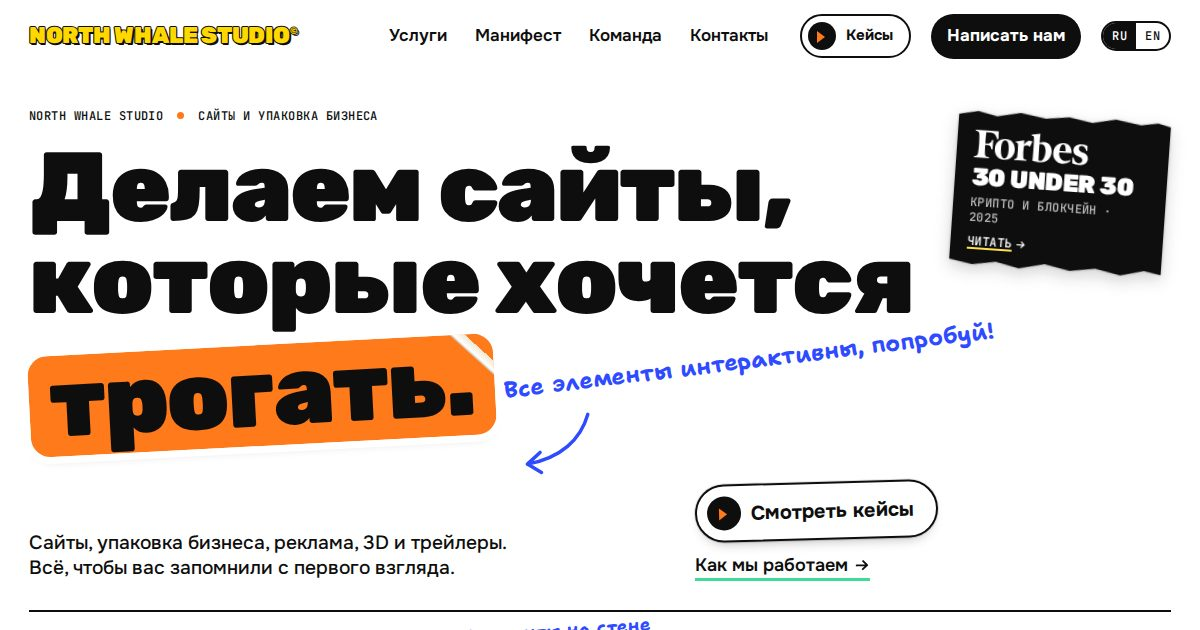
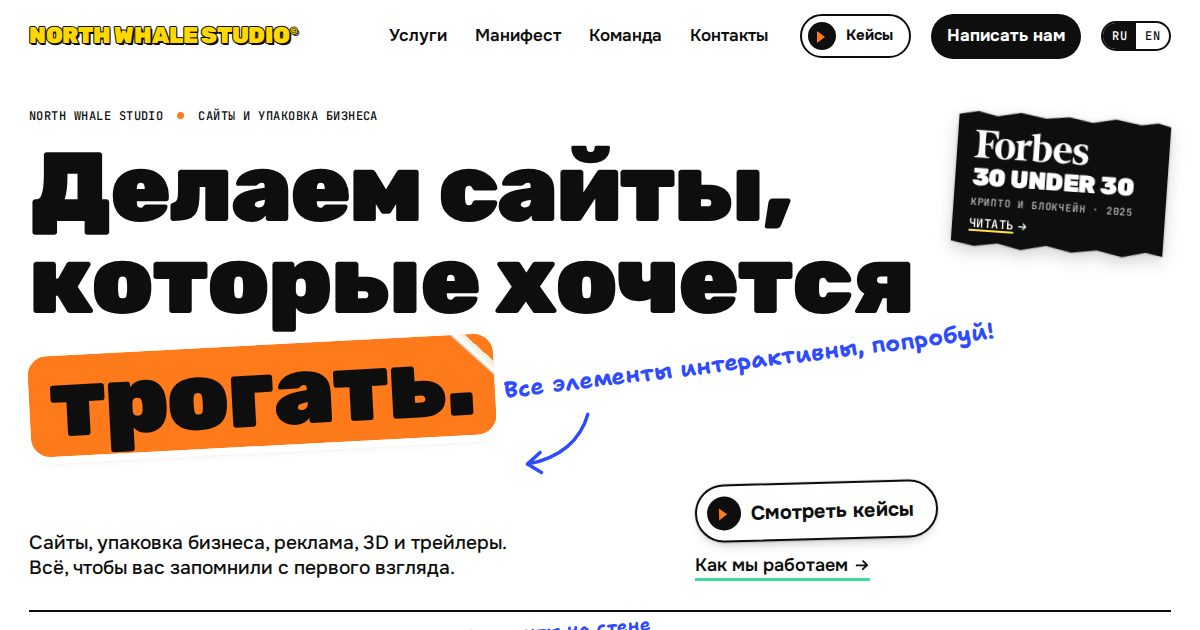
fix: review findings on the Forbes clipping and the new cases
- the clipping tilts with --r and from the first paint, so it is measured tilted
- small phones: beside the second button, inside the side margins, whole on a 320 x 568 screen
- placed again when late fonts arrive; not on height-only resizes; inline offsets cleared in the buttons' row
- the date line keeps «· 2025» on its line; link preview picture redrawn
- signal red case panel: small text at full white for 4.5:1
- the read cursor label has its colours
- tests: counter wait, role card without deliverables, ru/en parity of it, tablet pairs, tile order from cases.json

Changed region(s): [[0.7708, 0.2111, 0.9867, 0.4524]]

diff --git a/tests/e2e/page.test.ts b/tests/e2e/page.test.ts
@@ -112,23 +112,24 @@ test("the served page carries the bug widget loader; the export leaves it out", 
 });
 
 // The Forbes clipping: what it covers among the hero's words, the note and the buttons, and
-// whether it is whole on the first screen.
+// whether it is whole on the first screen, inside the page's side margins (12 px at least).
 const forbesSpot = (page: Page) =>
   page.evaluate(() => {
-    const f = document.querySelector(".hero a.forbes")!.getBoundingClientRect();
+    const a = document.querySelector(".hero a.forbes")!;
+    const f = a.getBoundingClientRect();
     const hits = [...document.querySelectorAll(".hero .kicker span, .hero .hw, .hero .peel-slot, .hero .hero-note, .hero .lede, .hero .watch, .hero .believe")]
       .filter((e) => {
         const o = e.getBoundingClientRect();
         return o.width > 0 && o.left < f.right && o.right > f.left && o.top < f.bottom && o.bottom > f.top;
       })
       .map((e) => e.textContent);
-    return { hits, inView: f.top >= 0 && f.bottom <= innerHeight && f.left >= 0 && f.right <= innerWidth };
+    return { hits, inView: f.top >= 0 && f.bottom <= innerHeight && f.left >= 12 && f.right <= innerWidth - 12, flow: a.classList.contains("flow"), at: [Math.round(f.left), Math.round(f.top)] };
   });
 
-test("the Forbes 30 Under 30 clipping: on the first screen at every width, clear of the headline, the note and the buttons; opens the article in a new tab", async () => {
+test("the Forbes 30 Under 30 clipping: on the first screen at every width, clear of the headline, the note and the buttons; links to the article in a new tab", async () => {
   const ARTICLE = "https://forbes.pe/brand-voice/2025-03-12/los-proximos-crypto-revolucionarios-30-under-30-by-kol-capital/";
-  // Phones, tablets, laptops (two of them short), wide screens.
-  const views = [[320, 844], [360, 844], [390, 844], [768, 900], [1024, 900], [1280, 720], [1280, 900], [1366, 768], [1440, 900], [1920, 1080]];
+  // Phones (two of them small), tablets, laptops (two of them short), wide screens.
+  const views = [[320, 568], [320, 844], [360, 844], [375, 667], [390, 844], [768, 900], [1024, 900], [1280, 720], [1280, 900], [1366, 768], [1440, 900], [1920, 1080]];
   for (const lang of ["ru", "en"])
     for (const [width, height] of views) {
       const options = width <= 700 ? { ...phone, viewport: { width, height } } : { viewport: { width, height } };
@@ -151,25 +152,38 @@ test("the Forbes 30 Under 30 clipping: on the first screen at every width, clear
 
 test("the Forbes clipping finds a new spot after a language switch and a resize, and keeps the keyboard focus", async () => {
   const frames = (page: Page) => page.evaluate(() => new Promise((done) => requestAnimationFrame(() => requestAnimationFrame(done))));
-  // 1440 px: the English headline wraps otherwise, so the spot moves.
+  // 1440 px: the English headline wraps otherwise, so the spot moves to where a fresh English page has it.
   {
-    const { context, page, errors } = await open(browser, `${server.url}/?lang=ru`, { viewport: { width: 1440, height: 900 } });
+    const desktop = { viewport: { width: 1440, height: 900 } };
+    const fresh = await open(browser, `${server.url}/?lang=en`, desktop);
+    const want = await forbesSpot(fresh.page);
+    await fresh.context.close();
+    const { context, page, errors } = await open(browser, `${server.url}/?lang=ru`, desktop);
+    const before = await forbesSpot(page);
     await page.locator(".nav .lang button[lang=en]").click();
     await page.waitForFunction(() => document.documentElement.lang === "en");
     await frames(page);
-    expect(await forbesSpot(page)).toEqual({ hits: [], inView: true });
+    const after = await forbesSpot(page);
+    expect(after).toEqual(want);
+    expect(after.at).not.toEqual(before.at);
+    expect(after.hits).toEqual([]);
     expect(errors).toEqual([]);
     await context.close();
   }
   // Phones: at 360 and 430 px it stands beside the buttons, at 390 px beside the headline.
   const { context, page, errors } = await open(browser, `${server.url}/?lang=ru`, { ...phone, viewport: { width: 360, height: 844 } });
   await page.focus(".hero a.forbes");
+  const flow: boolean[] = [];
   for (const width of [390, 430, 1280, 360]) {
     await page.setViewportSize({ width, height: width > 700 ? 900 : 844 });
     await frames(page);
-    expect(await forbesSpot(page), `${width}`).toEqual({ hits: [], inView: true });
+    const spot = await forbesSpot(page);
+    expect([spot.hits, spot.inView], `${width}`).toEqual([[], true]);
     expect(await page.evaluate(() => document.activeElement?.classList.contains("forbes")), `${width}: focus`).toBe(true);
+    flow.push(spot.flow);
   }
+  // It really moved between the buttons and the headline.
+  expect(new Set(flow)).toEqual(new Set([true, false]));
   expect(errors).toEqual([]);
   await context.close();
 });

diff --git a/plugins/hero/style.css b/plugins/hero/style.css
@@ -31,20 +31,21 @@
 /* Forbes 30 Under 30: an ink press clipping with a torn edge, like «В прессе» in the open case,
    stuck at the hero's right edge (index.ts finds the spot). The shadow follows the torn edge,
    which lives in platform/ui/base.css (.torn). */
-.hero .forbes { position: absolute; left: 0; top: 0; z-index: 3; display: block; width: clamp(160px, 26vw - 100px, 300px); container-type: inline-size; color: var(--paper); text-decoration: none; rotate: 4deg; filter: drop-shadow(0 0 1px rgba(14, 14, 14, 0.35)) drop-shadow(0 6px 8px rgba(14, 14, 14, 0.18)); transition: rotate 0.3s var(--ease-spring), scale 0.3s var(--ease-spring); }
+.hero .forbes { position: absolute; left: 0; top: 0; z-index: 3; display: block; width: clamp(160px, 26vw - 100px, 300px); container-type: inline-size; color: var(--paper); text-decoration: none; --r: 4deg; filter: drop-shadow(0 0 1px rgba(14, 14, 14, 0.35)) drop-shadow(0 6px 8px rgba(14, 14, 14, 0.18)); transition: rotate 0.3s var(--ease-spring), scale 0.3s var(--ease-spring); }
 .forbes-clip { display: flex; flex-direction: column; align-items: flex-start; gap: clamp(4px, 0.5vw, 8px); padding: clamp(16px, 1.5vw, 24px) clamp(14px, 1.4vw, 22px) clamp(14px, 1.3vw, 20px); background: var(--ink); }
 .forbes .logo-mark { --lh: clamp(26px, 2.6vw, 40px); }
 /* One line: sized by the clipping's width. */
 .forbes-big { font: 900 11.6cqi/0.95 var(--display); letter-spacing: -0.02em; text-transform: uppercase; white-space: nowrap; }
-.forbes-sub { font-size: 10px; letter-spacing: 0.08em; color: rgba(255, 255, 255, 0.7); }
+.forbes-sub { color: rgba(255, 255, 255, 0.7); }
 .forbes-read { margin-top: 2px; text-decoration: underline var(--lemon) 2px; text-underline-offset: 0.18em; }
-.hero .forbes:focus-visible { outline: 3px solid var(--cobalt); outline-offset: 4px; }
 /* Phones, and no free spot beside the text: in the buttons' row. */
-.hero .forbes.flow { position: relative; left: auto !important; top: auto !important; }
+/* Tilted before it becomes a piece too: a tilt that eased in after load would be measured half-way. */
+.hero .forbes:not(.piece) { rotate: var(--r); }
+.hero .forbes.flow { position: relative; }
 html.calm .hero .forbes { transition: none; }
 @media (hover: hover) {
   .hero .watch:hover { background: var(--lemon); }
-  .hero .forbes:not(.lifted):hover { rotate: 1deg; scale: 1.04; }
+  .hero .forbes:not(.lifted):hover { --r: 1deg; scale: 1.04; }
 }
 @media (max-width: 860px) {
   .hero-row { grid-template-columns: 1fr; }
@@ -61,7 +62,7 @@ html.calm .hero .forbes { transition: none; }
   .hero .watch .badge { width: 28px; height: 28px; }
   .hero .believe { font-size: 16px; }
   /* Phones: the logo and the line only, small enough for the room beside the headline. */
-  .hero .forbes { width: 134px; rotate: 3deg; }
+  .hero .forbes { width: 134px; --r: 3deg; }
   .forbes-clip { gap: 3px; padding: 8px 10px 8px; }
   .forbes .logo-mark { --lh: 16px; }
   .forbes-big { font-size: 11.4cqi; }
@@ -71,6 +72,12 @@ html.calm .hero .forbes { transition: none; }
   .hero-side:has(> .forbes) :is(.watch, .believe) { grid-column: 1; justify-self: start; }
   .hero .forbes.flow { grid-column: 2; grid-row: 1 / span 2; justify-self: end; align-self: center; }
 }
+/* Small phones: no room beside both buttons, the clipping goes beside the second one. */
+@media (max-width: 380px) {
+  .hero-side:has(> .forbes) .watch { grid-column: 1 / -1; }
+  .hero .forbes.flow { grid-row: 2; }
+}
+/* The smallest: a smaller clipping, so it stays on the first screen of a 320 x 568 phone. */
 @media (max-width: 340px) {
-  .hero .forbes.flow { grid-column: 1 / -1; grid-row: auto; justify-self: start; }
+  .hero .forbes.flow { width: 116px; }
 }

diff --git a/tests/e2e/wall.test.ts b/tests/e2e/wall.test.ts
@@ -87,7 +87,7 @@ describe("wall layout", () => {
     await context.close();
   });
 
-  test("tablet (768 px): DeckForge is 3 columns wide beside Антикрус, the team block a 2x3 strip; 8 columns the team block is 3x2", async () => {
+  test("tablet (768 px): DeckForge is 3 columns wide beside Антикрус, Axie Infinity beside Tria, the team block a 2x3 strip; 8 columns the team block is 3x2", async () => {
     const { context, page } = await open(browser, `${full.url}/?lang=ru`, { viewport: { width: 768, height: 1024 } });
     // Columns and rows a cell takes, from its box and the wall's grid tracks.
     const span = (sel: string) =>
@@ -100,7 +100,11 @@ describe("wall layout", () => {
         const r = document.querySelector(s)!.getBoundingClientRect();
         return [Math.round((r.width + gap) / (col + gap)), Math.round((r.height + gap) / (row + gap))];
       }, sel);
-    expect(await span(".wall > .t3")).toEqual([3, 3]);
+    // DeckForge, Axie Infinity and Tria (cases 7, 9 and 10 on the wall) are 3x3; the last two share a row.
+    const t3 = (n: number) => `.wall > .t3:has(.tile[aria-label^="Кейс ${n}."])`;
+    for (const n of [7, 9, 10]) expect(await span(t3(n)), `case ${n}`).toEqual([3, 3]);
+    const top = (n: number) => page.$eval(t3(n), (e) => Math.round(e.getBoundingClientRect().top));
+    expect(await top(9)).toBe(await top(10));
     expect(await span(".wall > .sz-fam")).toEqual([2, 3]);
     // «Привет!» fits the narrow strip: the block clips what overflows.
     for (const width of [701, 768, 1024, 1100]) {

diff --git a/tests/e2e/case.test.ts b/tests/e2e/case.test.ts
@@ -82,6 +82,8 @@ describe("open and close", () => {
     await page.click("dialog.case .case-next");
     await page.waitForFunction(() => document.querySelector("#case-title")!.textContent === "Tria");
     expect(await hash(page)).toBe("#case-11");
+    // The studio wrote no "what we handed over" line for Tria: the role card has none.
+    expect(await page.$$eval("dialog.case .case-role p", (els) => els.length)).toBe(0);
     expect(await page.evaluate(() => history.length)).toBe(before + 1);
     expect(await page.textContent("dialog.case .case-next")).toBe("Назад к стене");
     await page.click("dialog.case .case-next");
@@ -387,9 +389,10 @@ describe("player", () => {
     await page.waitForSelector("dialog.case[open]");
     await page.keyboard.press("Tab"); // keyboard modality, so focus() shows the ring
     const ratios: Record<number, number> = {};
-    for (const [i, id] of [1, 2, 3, 4, 5, 7, 8, 9, 10, 11].entries()) {
+    for (const [i, id] of ORDER.entries()) {
       await page.evaluate((n) => (location.hash = `#case-${n}`), id);
-      await page.waitForFunction((n) => document.querySelector(".case-count")!.textContent!.includes(String(n).padStart(2, "0")), i + 1);
+      // "Кейс 10 из 10": the number in front, not the total.
+      await page.waitForFunction((n) => document.querySelector(".case-count")!.textContent!.startsWith(`Кейс ${String(n).padStart(2, "0")} `), i + 1);
       await page.focus("dialog.case .case-next");
       ratios[id] = await page.evaluate(() => {
         const lum = (c: string) => {

diff --git a/plugins/hero/index.ts b/plugins/hero/index.ts
@@ -46,7 +46,7 @@ export default function init(host: Host) {
   const howText = h("span");
   const how = h("a", { class: "link-under believe arrowed", href: "#manifesto" }, howText, icon("arrowRight", 18));
   const forbesBig = h("b", { class: "forbes-big" });
-  const forbesSub = h("span", { class: "mono forbes-sub" });
+  const forbesSub = h("span", { class: "mono-s forbes-sub" });
   const forbesRead = h("span");
   const forbes = h(
     "a",
@@ -137,6 +137,7 @@ export default function init(host: Host) {
     const at = clippingPlace(hr, parseFloat(cs.paddingTop), parseFloat(cs.paddingRight), box, taken);
     if (!at) {
       forbes.classList.add("flow");
+      forbes.style.left = forbes.style.top = "";
       side.append(forbes);
     } else {
       // The box of the tilted clipping starts a little off its own corner.
@@ -170,8 +171,13 @@ export default function init(host: Host) {
     placeNote();
     writeIn(heroNote);
     document.fonts?.ready.then(placeNote);
+    // Fonts a language switch asks for come later and widen the words: place again then.
+    document.fonts?.addEventListener("loadingdone", () => requestAnimationFrame(placeNote));
     let queued = 0; // one placement per frame, however many resize events come
+    let width = innerWidth; // phones resize the height as the address bar hides: nothing moves then
     addEventListener("resize", () => {
+      if (innerWidth === width) return;
+      width = innerWidth;
       cancelAnimationFrame(queued);
       queued = requestAnimationFrame(placeNote);
     });

diff --git a/plugins/case/index.ts b/plugins/case/index.ts
@@ -1,6 +1,6 @@
 // Open case: a native modal dialog over the wall, kept in step with the address (history.ts).
 //
-//   [ media frame + player ][ North Whale Studio · Кейс 03 из 08     [× Назад к стене Esc] ]
+//   [ media frame + player ][ North Whale Studio · Кейс 03 из 10     [× Назад к стене Esc] ]
 //   [                      ][ eyebrow / client / client · category / lead                 ]
 //   [                      ][ how we did it, cards: one batch, our role, results; links    ]
 //   [                      ][ [Дальше: <next case> →] [Написать нам] Скопировать ссылку    ]
@@ -122,9 +122,7 @@ export default function init(host: Host) {
   ].filter((x): x is HTMLElement => !!x);
 
   const render = (c: CaseItem) => {
-    const all = content().cases();
-    const i = all.findIndex((x) => x.id === c.id);
-    counter.textContent = content().format("case.counter", { n: two(i + 1), total: two(all.length) });
+    counter.textContent = content().format("case.counter", { n: two(c.n), total: two(content().cases().length) });
     panel.dataset.bg = c.color;
     panel.style.setProperty("--case-bg", `var(--${c.color})`);
     panel.classList.toggle("on-ink", dark.has(c.color));

diff --git a/plugins/content/store.ts b/plugins/content/store.ts
@@ -44,9 +44,10 @@ export function createStore(getLang: () => Lang, warn: (msg: string) => void = c
       const what = c.what ? local(c.what) : null;
       const result = c.result.map(local);
       const still = c.kind === "still";
+      const n = i + 1;
       return {
         id: c.id,
-        n: i + 1,
+        n,
         client,
         what,
         result,
@@ -67,7 +68,7 @@ export function createStore(getLang: () => Lang, warn: (msg: string) => void = c
         },
         story: { task: text("case.task"), did: text("case.did"), result: text("case.result") },
         page: pages[getLang()][c.id] ?? null,
-        sr: [format("case.label", { n: i + 1 }), client, what, ...result, c.press.length ? `${text("case.seenIn")}: ${c.press.map((p) => p.name).join(", ")}` : null]
+        sr: [format("case.label", { n }), client, what, ...result, c.press.length ? `${text("case.seenIn")}: ${c.press.map((p) => p.name).join(", ")}` : null]
           .filter(Boolean)
           .join(". "),
       };

diff --git a/plugins/wall/tests/layout.test.ts b/plugins/wall/tests/layout.test.ts
@@ -1,4 +1,5 @@
 import { describe, expect, test } from "bun:test";
+import cases from "../../content/data/cases.json";
 import { isSticker, starPoints, tilts, W } from "../layout.ts";
 
 describe("wall order", () => {
@@ -17,7 +18,7 @@ describe("wall order", () => {
     expect(W.flatMap((s) => (s.k === "svc" && s.wide ? [s.id] : []))).toEqual([2]);
     expect(W.flatMap((s) => (s.k === "tile" && s.narrow ? [s.id] : []))).toEqual([8, 10, 11]);
     // The tiles read in the cases' order, so their numbers go up down the wall.
-    expect(W.flatMap((s) => (s.k === "tile" ? [s.id] : []))).toEqual([1, 2, 3, 4, 5, 7, 8, 9, 10, 11]);
+    expect(W.flatMap((s) => (s.k === "tile" ? [s.id] : []))).toEqual(cases.map((c) => c.id));
   });
 
   test("the wall closes with the team block, the clients' sheet and two clients", () => {

diff --git a/plugins/cursor/colors.ts b/plugins/cursor/colors.ts
@@ -1,6 +1,6 @@
 // Cursor label colours (T§4.11 with the site's tokens). Owners write the translated label into
 // data-cursor; the cursor finds which key that label is and paints the pill for it.
-export const CURSOR_KEYS = ["open", "drag", "dragging", "write", "close", "pull", "dive", "spin", "tidy", "meet", "play", "hi"] as const;
+export const CURSOR_KEYS = ["open", "drag", "dragging", "write", "close", "pull", "dive", "spin", "tidy", "meet", "play", "hi", "read"] as const;
 export type CursorKey = (typeof CURSOR_KEYS)[number];
 
 export interface Colors {
@@ -12,6 +12,7 @@ export function cursorColors(key: CursorKey | undefined): Colors {
   switch (key) {
     case "open":
     case "close":
+    case "read":
       return { bg: "var(--ink)", fg: "var(--paper)" };
     case "drag":
     case "dragging":

diff --git a/plugins/cursor/tests/colors.test.ts b/plugins/cursor/tests/colors.test.ts
@@ -5,6 +5,7 @@ describe("cursor", () => {
   test("label colours follow the key", () => {
     expect(cursorColors("open")).toEqual({ bg: "var(--ink)", fg: "var(--paper)" });
     expect(cursorColors("close")).toEqual({ bg: "var(--ink)", fg: "var(--paper)" });
+    expect(cursorColors("read")).toEqual({ bg: "var(--ink)", fg: "var(--paper)" });
     for (const k of ["drag", "pull", "tidy", "dragging"] as const) expect(cursorColors(k)).toEqual({ bg: "var(--buoy)", fg: "var(--ink)" });
     for (const k of ["write", "hi", "meet", "play"] as const) expect(cursorColors(k)).toEqual({ bg: "var(--jellyfish)", fg: "var(--ink)" });
     for (const k of ["dive", "spin"] as const) expect(cursorColors(k)).toEqual({ bg: "var(--cobalt)", fg: "var(--paper)" });

diff --git a/plugins/case/style.css b/plugins/case/style.css
@@ -4,6 +4,8 @@
 dialog.sheet.case { padding: 28px; }
 .case-in { --case-bg: var(--cobalt); --case-fg: var(--ink); --case-soft: color-mix(in srgb, var(--case-fg) 85%, transparent); height: 100%; display: grid; grid-template-columns: minmax(0, 1.25fr) minmax(0, 1fr); background: var(--case-bg); color: var(--case-fg); border-radius: 10px; overflow: hidden; }
 .case-in.on-ink { --case-fg: var(--paper); }
+/* The softened small text is under 4.5:1 on signal red: full white there. */
+.case-in[data-bg="signal"] { --case-soft: var(--case-fg); }
 /* Cobalt is under 3:1 on buoy and jellyfish: the focus ring is ink there. */
 .case-in:is([data-bg="buoy"], [data-bg="jellyfish"]) :focus-visible { outline-color: var(--ink); }
 

diff --git a/plugins/content/tests/content.test.ts b/plugins/content/tests/content.test.ts
@@ -85,7 +85,7 @@ describe("cases", () => {
     const shape = (id: number, lang: "ru" | "en") => {
       const p = store(lang).caseById(id)!.page;
       if (!p) return null;
-      return [p.sections.map((x) => [x.text.length, !!x.kicker]), !!p.card, p.role.items.length, p.results?.items.length ?? 0, !!p.results?.note, p.links.length];
+      return [p.sections.map((x) => [x.text.length, !!x.kicker]), !!p.card, p.role.items.length, p.role.deliverables === null, p.results?.items.length ?? 0, !!p.results?.note, p.links.length];
     };
     expect(cases.filter((c) => c.page).map((c) => c.id)).toEqual([1, 2, 3, 4, 5, 7, 8, 9, 10, 11]);
     for (const c of cases) {
